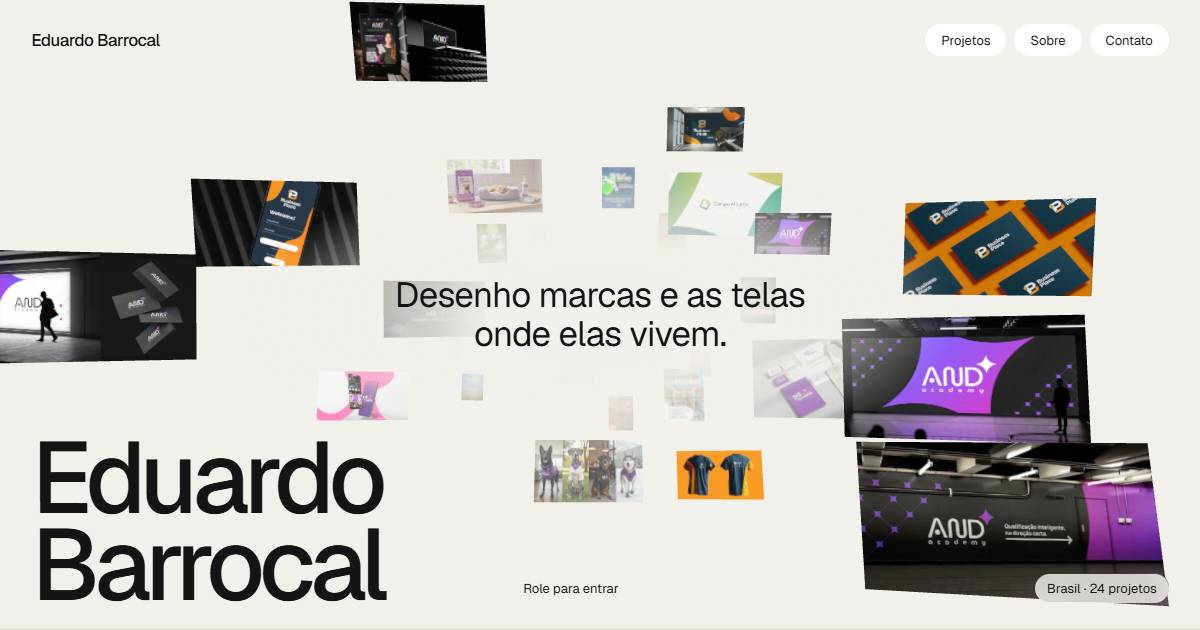
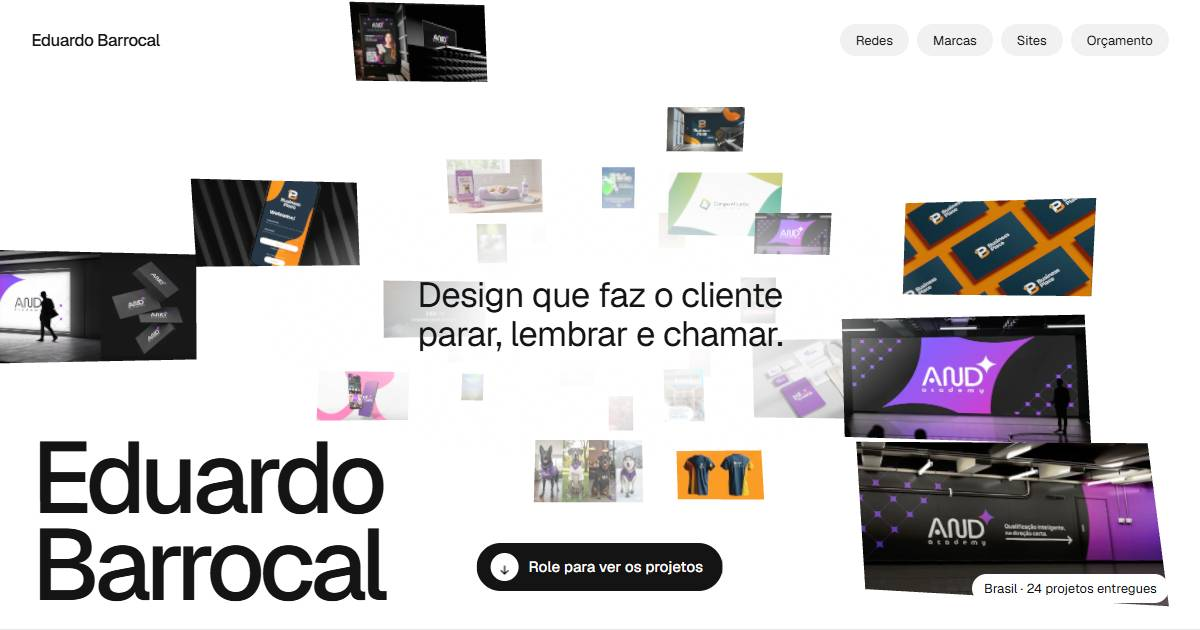
Fundo branco absoluto
O off-white sai: fundo, névoa do túnel e halos atrás dos textos passam a ser
branco puro. As pílulas, que eram brancas, ganham um cinza bem claro para não
sumir; fios e cinzas de texto ficam neutros; as placas das logos ganham
contorno. A imagem de compartilhamento é refeita no fundo novo.

diff --git a/src/app/globals.css b/src/app/globals.css
@@ -1,17 +1,18 @@
 /* ---------------------------------------------------------------------------
    Tokens + reset
 
-   A paleta da Margem: papel off-white, tinta quase preta, um cinza para o
-   secundário, fio claro e pílula branca. Acento só em um detalhe por seção:
+   A paleta da Margem sobre branco absoluto: tinta quase preta, um cinza para o
+   secundário, fio claro e pílula cinza-clara. Acento só em um detalhe por seção:
    terracota ou verde-mata. Geist 400 e 500 em tudo.
 --------------------------------------------------------------------------- */
 
 :root {
-  --bg: #f2f0eb;
+  --bg: #ffffff;
   --ink: #141414;
-  --ink-2: #5d5b56;
-  --line: #dcd8cf;
-  --pill: #ffffff;
+  --ink-2: #5e5e5e;
+  --line: #e6e6e6;
+  /* Pílula em cinza bem claro: branca, sumiria no fundo branco. */
+  --pill: #f1f1f1;
   --terracota: #d9653b;
   --mata: #2f4a3a;
 
@@ -19,7 +20,7 @@
   --c-paper: var(--bg);
   --c-ink: var(--ink);
   --c-ink-soft: var(--ink-2);
-  --c-ink-faint: #6e6b65;
+  --c-ink-faint: #6e6e6e;
 
   --f-sans: var(--font-geist-sans), system-ui, -apple-system, sans-serif;
   --f-mono: var(--font-geist-mono), ui-monospace, monospace;

diff --git a/src/components/margem/tunel/Tunel.module.css b/src/components/margem/tunel/Tunel.module.css
@@ -30,8 +30,8 @@
   padding: 3.2em 4.4em;
   background: radial-gradient(
     closest-side,
-    rgba(242, 240, 235, 0.94) 35%,
-    rgba(242, 240, 235, 0)
+    rgba(255, 255, 255, 0.94) 35%,
+    rgba(255, 255, 255, 0)
   );
   font-size: clamp(24px, 2.9vw, 52px);
   line-height: 1.12;
@@ -160,8 +160,8 @@
   height: 48%;
   background: linear-gradient(
     to top,
-    rgba(242, 240, 235, 0.92) 18%,
-    rgba(242, 240, 235, 0)
+    rgba(255, 255, 255, 0.92) 18%,
+    rgba(255, 255, 255, 0)
   );
 }
 
@@ -229,8 +229,8 @@
   padding: 1.2em 2.4em;
   background: radial-gradient(
     closest-side,
-    rgba(242, 240, 235, 0.94) 40%,
-    rgba(242, 240, 235, 0)
+    rgba(255, 255, 255, 0.94) 40%,
+    rgba(255, 255, 255, 0)
   );
   font-size: clamp(36px, 5vw, 92px);
   font-weight: 500;

diff --git a/src/components/margem/Nav.tsx b/src/components/margem/Nav.tsx
@@ -14,7 +14,7 @@ const LINKS = [
 /**
  * Nome no canto e quatro pílulas. Some ao rolar para baixo (passada meia tela)
  * e volta ao rolar para cima; quando volta no meio da página, traz um véu
- * off-white atrás, para nunca cobrir título, filtro ou nota.
+ * branco atrás, para nunca cobrir título, filtro ou nota.
  */
 export function Nav() {
   const [hidden, setHidden] = useState(false);

diff --git a/src/components/margem/Nav.module.css b/src/components/margem/Nav.module.css
@@ -16,7 +16,7 @@
   position: absolute;
   inset: 0 0 -24px;
   z-index: -1;
-  background: linear-gradient(to bottom, var(--bg) 55%, rgba(242, 240, 235, 0));
+  background: linear-gradient(to bottom, var(--bg) 55%, rgba(255, 255, 255, 0));
   opacity: 0;
   transition: opacity 0.3s var(--e-out);
   pointer-events: none;

diff --git a/src/components/margem/tunel/cena.ts b/src/components/margem/tunel/cena.ts
@@ -18,7 +18,7 @@ export const FIM_Z = -88;
 const DW = 6;
 const DH = (6 * 1080) / 1920;
 const PAREDES = 78;
-const BG = 0xf2f0eb;
+const BG = 0xffffff;
 
 /** `puxar` é um objeto por destaque: o GSAP trataria números soltos num array como alvos. */
 export type Estado = { camZ: number; puxar: { v: number }[] };

diff --git a/src/components/margem/Fecho.module.css b/src/components/margem/Fecho.module.css
@@ -32,8 +32,8 @@
   padding: 3em 4em;
   background: radial-gradient(
     closest-side,
-    rgba(242, 240, 235, 0.95) 45%,
-    rgba(242, 240, 235, 0)
+    rgba(255, 255, 255, 0.95) 45%,
+    rgba(255, 255, 255, 0)
   );
   font-size: clamp(28px, 2.7vw, 46px);
   line-height: 1.18;

diff --git a/src/components/margem/Sobre.module.css b/src/components/margem/Sobre.module.css
@@ -41,6 +41,8 @@
   border-radius: 6px;
   overflow: hidden;
   background: #fff;
+  /* Contorno fino: placa branca sobre fundo branco precisa de borda. */
+  box-shadow: inset 0 0 0 1px var(--line);
   transition: transform 0.4s var(--e-out);
 }
 

diff --git a/src/app/layout.tsx b/src/app/layout.tsx
@@ -37,7 +37,7 @@ export const metadata: Metadata = {
 };
 
 export const viewport: Viewport = {
-  themeColor: "#f2f0eb",
+  themeColor: "#ffffff",
   width: "device-width",
   initialScale: 1,
   viewportFit: "cover",

diff --git a/src/components/margem/Redes.module.css b/src/components/margem/Redes.module.css
@@ -53,7 +53,7 @@
 }
 
 .filtro:hover {
-  background: #e7e3da;
+  background: #e6e6e6;
 }
 
 .filtro[aria-pressed="true"] {
